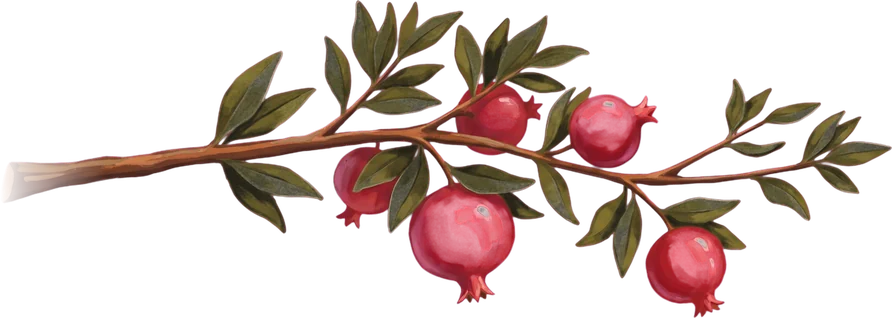
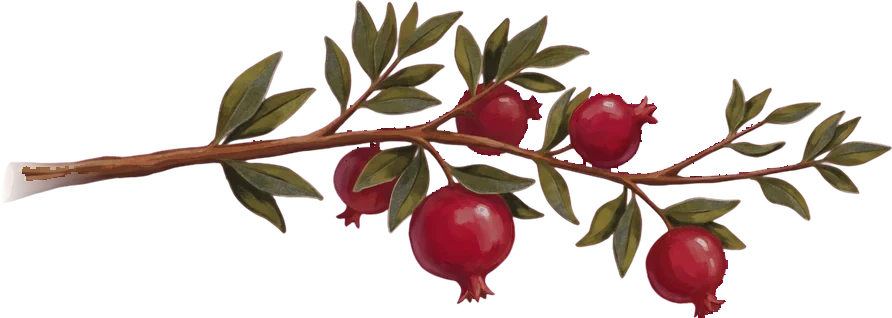
Canopy: ground fruit cut on their exact outline; one fruit style across the canopy (solid, ground crimson, no oversized pair)

diff --git a/index.html b/index.html
@@ -149,9 +149,10 @@
       <div class="rig__p" data-p="limb-r1" style="--x:1410;--y:728;--w:381;--h:262;--px:377;--py:186"><img src="assets/tree/rig/limb-r1.webp" width="381" height="262" alt="" loading="lazy" decoding="async"></div>
       <div class="rig__p" data-p="limb-r2" style="--x:1385;--y:973;--w:454;--h:302;--px:450;--py:168"><img src="assets/tree/rig/limb-r2.webp" width="454" height="302" alt="" loading="lazy" decoding="async"></div>
       <div class="rig__b rig__b--front" data-rig="b4" style="--x:150;--y:620;--w:651;--h:388;--px:0;--py:274;--r:-2deg"><img src="assets/tree/rig/b4.webp" width="814" height="485" alt="" loading="lazy" decoding="async"><span class="rig__f" style="--x:500;--y:165;--w:80;--px:40.1;--r:2deg"><img src="assets/tree/rig/fruit3.webp" width="160" height="224" alt="" loading="lazy" decoding="async"></span></div>
-      <div class="rig__b rig__b--front" data-rig="b7" style="--x:1380;--y:500;--w:654.2;--h:398.3;--px:653.6;--py:144.6;--r:4deg"><img src="assets/tree/rig/b7.webp" width="818" height="498" alt="" loading="lazy" decoding="async"><span class="rig__f" style="--x:197.6;--y:218.4;--w:58;--px:30.1;--r:-4deg"><img src="assets/tree/rig/fruit1.webp" width="116" height="188" alt="" loading="lazy" decoding="async"></span></div>
       <div class="rig__b rig__b--front" data-rig="b1m" style="--x:175;--y:700;--w:720.5;--h:390;--px:0;--py:246;--r:-4deg"><img src="assets/tree/rig/b1m.webp" width="901" height="488" alt="" loading="lazy" decoding="async"><span class="rig__f" style="--x:575;--y:205;--w:58;--px:30.1;--r:4deg"><img src="assets/tree/rig/fruit1.webp" width="116" height="188" alt="" loading="lazy" decoding="async"></span><span class="rig__f" style="--x:350;--y:125;--w:80;--px:41.9;--r:4deg"><img src="assets/tree/rig/fruit2.webp" width="160" height="242" alt="" loading="lazy" decoding="async"></span></div>
       <div class="rig__b rig__b--front" data-rig="b6" style="--x:1365;--y:690;--w:727.5;--h:405;--px:727;--py:221;--r:0deg"><img src="assets/tree/rig/b6.webp" width="909" height="506" alt="" loading="lazy" decoding="async"><span class="rig__f" style="--x:150;--y:225;--w:58;--px:30.1;--r:0deg"><img src="assets/tree/rig/fruit1.webp" width="116" height="188" alt="" loading="lazy" decoding="async"></span><span class="rig__f" style="--x:325;--y:135;--w:80;--px:40.1;--r:0deg"><img src="assets/tree/rig/fruit3.webp" width="160" height="224" alt="" loading="lazy" decoding="async"></span></div>
+      <!-- b7 last (owner 2026-11-03): its big fruit pair sat behind b6's leaves and read as a faded ghost -->
+      <div class="rig__b rig__b--front" data-rig="b7" style="--x:1380;--y:500;--w:654.2;--h:398.3;--px:653.6;--py:144.6;--r:4deg"><img src="assets/tree/rig/b7.webp" width="818" height="498" alt="" loading="lazy" decoding="async"><span class="rig__f" style="--x:445;--y:210;--w:80;--px:40.1;--r:-4deg"><img src="assets/tree/rig/fruit3.webp" width="160" height="224" alt="" loading="lazy" decoding="async"></span><span class="rig__f" style="--x:197.6;--y:218.4;--w:58;--px:30.1;--r:-4deg"><img src="assets/tree/rig/fruit1.webp" width="116" height="188" alt="" loading="lazy" decoding="async"></span></div>
     </div>
     <!-- the static bark at the canopy junction (rows 1000–1272, bark columns only), ABOVE the moving layers: the trunks
          never move while the branches and leaves do -->

diff --git a/docs/council/rig_fruitfix.py b/docs/council/rig_fruitfix.py
@@ -1,0 +1,66 @@
+"""Owner 2026-11-03: "make the pomegranates' art styles match" (+ the see-through fruit in the canopy).
+For every canopy sprite that carries fruit (the branches, the hanging fruit, the trunk-top crowns):
+  1. solid fruit: the magenta key (rekey.key) read red as half-magenta, so painted fruit came out 5-35 % see-through
+     (the "ghost" fruit over the leaves). Inside each sprite's body (its alpha filled and eroded 2px), red pixels are
+     made fully opaque again (their colour was never un-mixed, so it is the painted colour)
+  2. one fruit palette: the red pixels are graded onto the ground pomegranate's measured colour (mean / spread per
+     channel of assets/tree/pom-rock.webp, the approved painting's deep crimson), weighted by how red a pixel is, so
+     the highlights and the crowns keep their light
+Reads the untouched sprites from src-assets/tree/rig/pre-fruitfix/ (copied there on the first run), so it can be re-run."""
+import os, shutil
+import numpy as np, cv2
+from PIL import Image
+SITE = r'C:\dev\anar-site'; RIG = os.path.join(SITE, 'assets', 'tree', 'rig'); KEEP = os.path.join(SITE, 'src-assets', 'tree', 'rig', 'pre-fruitfix')
+NAMES = ['b1m', 'b2', 'b3', 'b4', 'b5', 'b6', 'b7', 'b8', 'fruit1', 'fruit2', 'fruit3', 'crown-l', 'crown-r']
+os.makedirs(KEEP, exist_ok=True)
+g = np.asarray(Image.open(os.path.join(SITE, 'assets', 'tree', 'pom-rock.webp')).convert('RGBA')).astype(np.float32)
+gr = (g[..., 0] > g[..., 1] + 60) & (g[..., 0] > g[..., 2] + 25) & (g[..., 3] > 250)
+MU, SD = g[gr][:, :3].mean(0), g[gr][:, :3].std(0)
+print('target', MU.round(1), SD.round(1))
+for n in NAMES:
+    src = os.path.join(KEEP, f'{n}.webp')
+    if not os.path.exists(src):
+        shutil.copy2(os.path.join(RIG, f'{n}.webp'), src)
+    a = np.asarray(Image.open(src).convert('RGBA')).astype(np.float32)
+    rgb, al = a[..., :3], a[..., 3]
+    r, gg, b = rgb[..., 0], rgb[..., 1], rgb[..., 2]
+    gone = np.zeros(al.shape, bool)
+    if n == 'b7':
+        # its painted pair (sprite px x 438-645, y 256-430) is twice the size of every other fruit; erased (the fruit and
+        # its rim / crowns inside the pair's hull, the leaves kept) and replaced in index.html by the standard hanging
+        # pair (fruit3, 80 art px) from the same point, so the layers behind show through where it hung
+        lab_in = ((r > gg + 45) & (r > b + 20) & (al > 60)).astype(np.uint8)
+        lab_in = cv2.morphologyEx(lab_in, cv2.MORPH_CLOSE, np.ones((5, 5), np.uint8))
+        n_, lab, st, _ = cv2.connectedComponentsWithStats(lab_in); k = 1 + int(np.argmax(st[1:, cv2.CC_STAT_AREA]))
+        pair = np.where(lab == k, 255, 0).astype(np.uint8)
+        cs, _ = cv2.findContours(pair, cv2.RETR_EXTERNAL, cv2.CHAIN_APPROX_NONE)
+        hull = np.zeros_like(pair); cv2.fillPoly(hull, [cv2.convexHull(max(cs, key=cv2.contourArea))], 255)
+        hull = cv2.dilate(hull, cv2.getStructuringElement(cv2.MORPH_ELLIPSE, (9, 9))) > 0
+        leaf = (gg >= r - 5) & (gg > b)
+        gone = hull & ~leaf
+        al = np.where(gone, 0, al)
+        # the leaves that hung behind the pair now float: keep only what is still joined to the branch
+        n_, lab, st, _ = cv2.connectedComponentsWithStats((al > 30).astype(np.uint8))
+        main_ = 1 + int(np.argmax(st[1:, cv2.CC_STAT_AREA]))
+        loose = (lab != main_) & (lab > 0)
+        gone |= loose; al = np.where(loose, 0, al)
+        a[..., 3] = al
+    body = ((al > 60).astype(np.uint8)) * 255
+    body = cv2.morphologyEx(body, cv2.MORPH_CLOSE, np.ones((7, 7), np.uint8))
+    ff = body.copy(); h, w = body.shape; cv2.floodFill(ff, np.zeros((h + 2, w + 2), np.uint8), (0, 0), 255)
+    body = cv2.erode(body | cv2.bitwise_not(ff), np.ones((5, 5), np.uint8)) > 0
+    red = (r > gg + 45) & (r > b + 20)
+    # only whole fruit: red blobs of real size, shrunk 2px off their outline (the leaf edges' red fringe stays as it was)
+    n_, lab, st, _ = cv2.connectedComponentsWithStats((red & body).astype(np.uint8))
+    big = np.isin(lab, 1 + np.where(st[1:, cv2.CC_STAT_AREA] >= 120)[0])
+    fix = (cv2.erode(big.astype(np.uint8), np.ones((5, 5), np.uint8)) > 0) & (not n.startswith('crown'))   # the crowns come from the approved painting: never keyed, their soft edge is painted
+    fix &= ~gone                                                          # never bring the erased pair back
+    al2 = np.where(fix, 255, al)
+    # the grade: weight 0 at r-g = 40 (pink highlights, orange crowns) to 1 at r-g >= 90 (the red body)
+    wgt = np.clip((r - gg - 40) / 50, 0, 1) * (al2 > 20)
+    sel = wgt > 0.9
+    mu, sd = rgb[sel].mean(0), rgb[sel].std(0)
+    moved = np.clip((rgb - mu) * (SD / np.maximum(sd, 1)) + MU, 0, 255)
+    out = rgb * (1 - wgt[..., None]) + moved * wgt[..., None]
+    Image.fromarray(np.dstack([out, al2]).astype(np.uint8), 'RGBA').save(os.path.join(RIG, f'{n}.webp'), 'WEBP', quality=88, method=6)
+    print(f'{n:8s} made solid {int((fix & (al < 230)).sum()):6d} px   red mean {mu.round(0)} -> {MU.round(0)}')

diff --git a/docs/council/pom_cut.py b/docs/council/pom_cut.py
@@ -22,8 +22,28 @@ def fruit_mask(x0, y0, x1, y1, cream):
     core = cv2.dilate(np.where(lab == k, 255, 0).astype(np.uint8), np.ones((15, 15), np.uint8)) & m   # crown tips back
     cs, _ = cv2.findContours(core, cv2.RETR_EXTERNAL, cv2.CHAIN_APPROX_NONE)
     hull = np.zeros_like(core); cv2.fillPoly(hull, [cv2.convexHull(max(cs, key=cv2.contourArea))], 255)
-    full = np.zeros((H, W), np.uint8); full[y0:y1, x0:x1] = hull
-    return cv2.dilate(full, cv2.getStructuringElement(cv2.MORPH_ELLIPSE, (11, 11)))   # + the painted dark rim (~5px)
+    # owner 2026-11-03 ("it is taking the ground and part of the tree"): the hull + a blind 5px dilation carried root,
+    # moss and sky with the fruit. The exact outline instead: GrabCut seeded with the fruit's own colours as sure
+    # foreground, sky / moss / root as sure background, and only the band around the hull left for it to decide
+    crop = np.ascontiguousarray(im[y0:y1, x0:x1])
+    C = crop.astype(int); Rr, Gg, Bb = C[..., 0], C[..., 1], C[..., 2]
+    gc = np.full(hull.shape, cv2.GC_BGD, np.uint8)
+    band = cv2.dilate(hull, cv2.getStructuringElement(cv2.MORPH_ELLIPSE, (17, 17)))
+    gc[band > 0] = cv2.GC_PR_BGD
+    gc[hull > 0] = cv2.GC_PR_FGD
+    gc[cv2.erode(core, np.ones((7, 7), np.uint8)) > 0] = cv2.GC_FGD
+    sky = (np.maximum(np.maximum(Rr, Gg), Bb) < 38)
+    moss_root = (Gg >= Rr - 8) | ((Rr > Gg) & (Rr - Gg < 45) & (Rr < 150) & (Bb < Gg + 10) & (Rr - Bb > 25) & (Rr - Gg < 40))
+    gc[(sky | moss_root) & (gc != cv2.GC_FGD)] = cv2.GC_BGD
+    bgm, fgm = np.zeros((1, 65), np.float64), np.zeros((1, 65), np.float64)
+    cv2.grabCut(cv2.cvtColor(crop, cv2.COLOR_RGB2BGR), gc, None, bgm, fgm, 6, cv2.GC_INIT_WITH_MASK)
+    fg = np.where((gc == cv2.GC_FGD) | (gc == cv2.GC_PR_FGD), 255, 0).astype(np.uint8)
+    n, lab, st, _ = cv2.connectedComponentsWithStats(fg); k = 1 + int(np.argmax(st[1:, cv2.CC_STAT_AREA]))
+    fg = np.where(lab == k, 255, 0).astype(np.uint8)
+    ff = fg.copy(); hh, ww = fg.shape; cv2.floodFill(ff, np.zeros((hh + 2, ww + 2), np.uint8), (0, 0), 255); fg |= cv2.bitwise_not(ff)
+    fg = cv2.morphologyEx(fg, cv2.MORPH_OPEN, np.ones((3, 3), np.uint8))
+    full = np.zeros((H, W), np.uint8); full[y0:y1, x0:x1] = fg
+    return full
 
 
 FRUIT = {'pom-rock': fruit_mask(535, 140, 805, 430, False),              # the whole fruit
@@ -43,7 +63,7 @@ SPR = {}
 for name, m in FRUIT.items():
     ys, xs = np.nonzero(m)
     sx0, sy0, sx1, sy1 = int(xs.min()), int(ys.min()), int(xs.max()) + 1, int(ys.max()) + 1
-    a = cv2.GaussianBlur(m, (5, 5), 0)                                   # a 2px feathered edge
+    a = cv2.GaussianBlur(m, (3, 3), 0)                                   # a 1px soft edge
     S = Image.fromarray(np.ascontiguousarray(np.dstack([im, a])[sy0:sy1, sx0:sx1]), 'RGBA')
     S.save(OUT + rf'\{name}.webp', 'WEBP', quality=90, method=6); SPR[name] = (S, sx0, sy0)
     print(name, 'size', S.size, 'left/top (plate px)', sx0, sy0)

diff --git a/docs/council/fruit_layers.py b/docs/council/fruit_layers.py
@@ -1,0 +1,21 @@
+"""Which layer paints which fruit: the right half of the canopy at 1440 (DPR 2), full and with layers hidden in turn."""
+from playwright.sync_api import sync_playwright
+from PIL import Image
+R = r'C:\dev\anar-site\docs\report\anim'
+HIDE = {'all': '', 'no-hanging': '.rig__f', 'no-front': '.rig__b--front', 'no-back': '.rig__b--back',
+        'no-pieces': '.rig__p', 'only-backdrop': '.rig__b,.rig__p,.rig__limbs'}
+with sync_playwright() as p:
+    b = p.chromium.launch(channel='msedge'); pg = b.new_page(viewport={'width': 1440, 'height': 900}, device_scale_factor=2)
+    pg.goto('http://127.0.0.1:5173/index.html', wait_until='load'); pg.wait_for_timeout(3000)
+    pg.wait_for_timeout(800)
+    print(pg.evaluate("(() => ({rigOn: document.documentElement.className, canopyOpacity: getComputedStyle(document.querySelector('.tree__canopy')).opacity, canopyVis: getComputedStyle(document.querySelector('.tree__canopy')).visibility}))()"))
+    pg.evaluate('window.scrollTo(0, 500)'); pg.wait_for_timeout(1200)
+    for name, sel in HIDE.items():
+        pg.evaluate("s => { document.querySelectorAll('[data-hid]').forEach(e => { e.style.visibility = ''; e.removeAttribute('data-hid'); }); if (s) document.querySelectorAll(s).forEach(e => { e.style.visibility = 'hidden'; e.setAttribute('data-hid', 1); }); }", sel)
+        pg.wait_for_timeout(300)
+        pg.screenshot(path=R + rf'\layer-{name}.jpg', type='jpeg', quality=80, clip={'x': 720, 'y': 80, 'width': 720, 'height': 820})
+    b.close()
+ims = [Image.open(R + rf'\layer-{n}.jpg').resize((480, 547)) for n in HIDE]
+s = Image.new('RGB', (3 * 485, 2 * 552))
+for i, im in enumerate(ims): s.paste(im, ((i % 3) * 485, (i // 3) * 552))
+s.save(R + r'\layers-sheet.jpg', quality=85)
